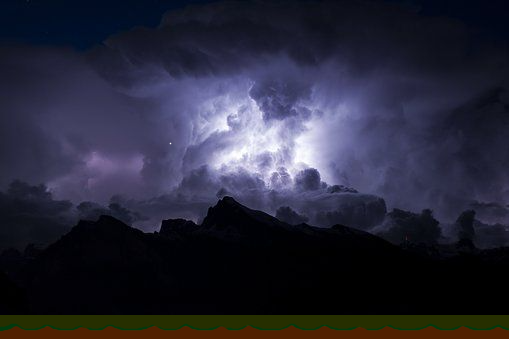
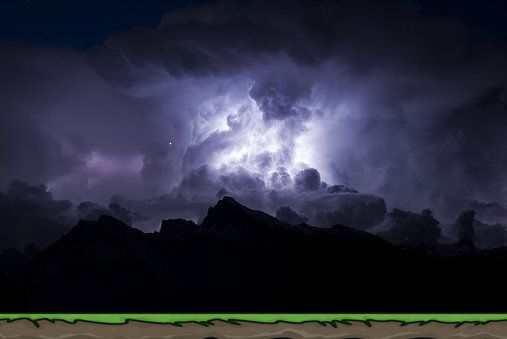
platforme

diff --git a/RPGEnGroupe/RPG/Samus/RPG_Samus.cpp b/RPGEnGroupe/RPG/Samus/RPG_Samus.cpp
@@ -9,15 +9,63 @@
 #pragma region constructor
 RPG_Samus::RPG_Samus()
 {
-	//inventory
 	Inventory inventory = Inventory();
 
-	//Font
+#pragma region font
 	font = new sf::Font();
 	if (!font->loadFromFile("../Donnees/Fonts/Ubuntu-Title.ttf"))
 		return;
+#pragma endregion
 
-	//Samus
+#pragma region platforme
+	spritePlatforme1 = new sf::Sprite();
+	texturePlatforme1 = new sf::Texture();
+	spritePlatforme2 = new sf::Sprite();
+	texturePlatforme2 = new sf::Texture();
+	spritePlatforme3 = new sf::Sprite();
+	texturePlatforme3 = new sf::Texture();
+	spritePlatforme4 = new sf::Sprite();
+	texturePlatforme4 = new sf::Texture();
+
+	if (texturePlatforme1->loadFromFile("../Donnees/Sol.png"))
+	{
+		spritePlatforme1->setTexture(*texturePlatforme1);
+	}
+	if (texturePlatforme2->loadFromFile("../Donnees/Sol.png"))
+	{
+		spritePlatforme2->setTexture(*texturePlatforme2);
+	}
+	if (texturePlatforme3->loadFromFile("../Donnees/Sol.png"))
+	{
+		spritePlatforme3->setTexture(*texturePlatforme1);
+	}
+	if (texturePlatforme4->loadFromFile("../Donnees/Sol.png"))
+	{
+		spritePlatforme4->setTexture(*texturePlatforme1);
+	}
+
+	spritePlatforme1->setOrigin(sf::Vector2f(0, 0));
+	spritePlatforme1->setScale(sf::Vector2f(PLATFORME1_SCALE, PLATFORME1_SCALE));
+	spritePlatforme1->setPosition(PLATFORME1_POSITION);
+	drawablePlatforme1 = spritePlatforme1;
+
+	spritePlatforme2->setOrigin(sf::Vector2f(0, 0));
+	spritePlatforme2->setScale(sf::Vector2f(PLATFORME2_SCALE, PLATFORME2_SCALE));
+	spritePlatforme2->setPosition(PLATFORME2_POSITION);
+	drawablePlatforme2 = spritePlatforme2;
+
+	spritePlatforme3->setOrigin(sf::Vector2f(0, 0));
+	spritePlatforme3->setScale(sf::Vector2f(PLATFORME3_SCALE, PLATFORME3_SCALE));
+	spritePlatforme3->setPosition(PLATFORME3_POSITION);
+	drawablePlatforme3 = spritePlatforme3;
+
+	spritePlatforme4->setOrigin(sf::Vector2f(0, 0));
+	spritePlatforme4->setScale(sf::Vector2f(PLATFORME4_SCALE, PLATFORME4_SCALE));
+	spritePlatforme4->setPosition(PLATFORME4_POSITION);
+	drawablePlatforme4 = spritePlatforme4;
+#pragma endregion
+
+#pragma region samus
 	spriteSamus = new sf::Sprite();
 	textureSamus = new sf::Texture();
 
@@ -30,22 +78,9 @@ RPG_Samus::RPG_Samus()
 	spriteSamus->setScale(sf::Vector2f(SAMUS_SCALE, SAMUS_SCALE));
 	spriteSamus->setPosition(SAMUS_POSITION);
 	drawableSamus = spriteSamus;
+#pragma endregion
 
-	//Palpatine
-	spritePalpatine = new sf::Sprite();
-	texturePalpatine = new sf::Texture();
-
-	if (texturePalpatine->loadFromFile("../Donnees/Palpatine/Dab.png"))
-	{
-		spritePalpatine->setTexture(*texturePalpatine);
-	}
-
-	spritePalpatine->setOrigin(sf::Vector2f(0, 0));
-	spritePalpatine->setScale(sf::Vector2f(PALPATINE_SCALE, PALPATINE_SCALE));
-	spritePalpatine->setPosition(PALPATINE_POSITION);
-	drawablePalpatine = spritePalpatine;
-
-	//Potion Mana
+#pragma region Potion Mana
 	spritePotionMana = new sf::Sprite();
 	texturePotionMana = new sf::Texture();
 	textMana = new sf::Text();
@@ -66,8 +101,9 @@ RPG_Samus::RPG_Samus()
 	spritePotionMana->setScale(sf::Vector2f(POTION_MANA_SCALE, POTION_MANA_SCALE));
 	spritePotionMana->setPosition(POTION_MANA_POSITION);
 	drawablePotionMana = spritePotionMana;
+#pragma endregion
 
-	//Potion Heal
+#pragma region Potion Heal
 	spritePotionHeal = new sf::Sprite();
 	texturePotionHeal = new sf::Texture();
 	textHeal = new sf::Text();
@@ -88,8 +124,9 @@ RPG_Samus::RPG_Samus()
 	spritePotionHeal->setScale(sf::Vector2f(POTION_HEAL_SCALE, POTION_HEAL_SCALE));
 	spritePotionHeal->setPosition(POTION_HEAL_POSITION);
 	drawablePotionHeal = spritePotionHeal;
+#pragma endregion
 
-	//coin
+#pragma region Coin
 	spriteCoin = new sf::Sprite();
 	textureCoin = new sf::Texture();
 	textCoin = new sf::Text();
@@ -109,26 +146,43 @@ RPG_Samus::RPG_Samus()
 	spriteCoin->setOrigin(sf::Vector2f(0, 0));
 	spriteCoin->setScale(sf::Vector2f(COIN_SCALE, COIN_SCALE));
 	spriteCoin->setPosition(COIN_POSITION);
-	drawableCoin= spriteCoin;
+	drawableCoin = spriteCoin;
+#pragma endregion
 
-	//animation
+#pragma region Animation
 	samusAnimRight = new Animation(spriteSamus, "../Donnees/Samus/Run_Right_low.png", "../Donnees/Samus/Run_Right.png", SAMUS_ANIMATION_INITIAL_SPEED, SAMUS_ANIMATION_SPEED);
 	samusAnimRight->SetScale(sf::Vector2f(SAMUS_SCALE, SAMUS_SCALE));
 
 	samusAnimLeft = new Animation(spriteSamus, "../Donnees/Samus/Run_Left_low.png", "../Donnees/Samus/Run_left.png", SAMUS_ANIMATION_INITIAL_SPEED, SAMUS_ANIMATION_SPEED);
 	samusAnimLeft->SetScale(sf::Vector2f(SAMUS_SCALE, SAMUS_SCALE));
+#pragma endregion
 }
 RPG_Samus::~RPG_Samus()
 {
+	delete spritePlatforme1;
+	spritePlatforme1 = nullptr;
+	delete texturePlatforme1;
+	texturePlatforme1 = nullptr;
+
+	delete spritePlatforme2;
+	spritePlatforme2 = nullptr;
+	delete texturePlatforme2;
+	texturePlatforme2 = nullptr;
+
+	delete spritePlatforme3;
+	spritePlatforme3 = nullptr;
+	delete texturePlatforme3;
+	texturePlatforme3 = nullptr;
+
+	delete spritePlatforme4;
+	spritePlatforme4 = nullptr;
+	delete texturePlatforme4;
+	texturePlatforme4 = nullptr;
+
 	delete spriteSamus;
 	spriteSamus = nullptr;
 	delete textureSamus;
 	textureSamus = nullptr;
-
-	delete spritePalpatine;
-	spritePalpatine = nullptr;
-	delete texturePalpatine;
-	texturePalpatine = nullptr;
 
 	delete spritePotionHeal;
 	spritePotionHeal = nullptr;
@@ -155,8 +209,7 @@ void RPG_Samus::OnUpdate()
 	/*if (isDead)
 		return;*/
 	
-
-	
+#pragma region touche move
 	if (Input::IsKeyDown(sf::Keyboard::D))
 	{
 		spriteSamus->setPosition(spriteSamus->getPosition() + sf::Vector2f(SAMUS_SPEED, 0));
@@ -171,6 +224,9 @@ void RPG_Samus::OnUpdate()
 	{
 		spriteSamus->setPosition(spriteSamus->getPosition() - sf::Vector2f(0, JUMP_FORCE));
 	}
+#pragma endregion
+
+#pragma region touche Item
 	if (Input::IsKeyDown(sf::Keyboard::A))
 	{
 		std::cout << "Heal !" << std::endl;
@@ -183,11 +239,29 @@ void RPG_Samus::OnUpdate()
 	{
 		std::cout << "Open chest !" << std::endl;
 	}
-	//position au sol
+	if (Input::IsKeyDown(sf::Keyboard::B))
+	{
+		std::cout << "Shop !" << std::endl;
+	}
+#pragma endregion
+
+#pragma region set position sol 
 	if (spriteSamus->getPosition().y <= HEIGHT - 125)
 	{
 		spriteSamus->setPosition(spriteSamus->getPosition() + sf::Vector2f(0, 0.05f));
 	}
+#pragma endregion
+
+#pragma region MyRegion
+	
+#pragma endregion
+
+
+	//pas plus haut que la fenetre
+	/*if (spriteSamus->getPosition().y <= 0)
+	{
+		spriteSamus->setPosition(spriteSamus->getPosition() - sf::Vector2f(0, 0.05f));
+	}*/
 	
 }
 sf::FloatRect RPG_Samus::GetGlobalBounds() const

diff --git a/RPGEnGroupe/RPG/GameObject/GameObject.cpp b/RPGEnGroupe/RPG/GameObject/GameObject.cpp
@@ -17,6 +17,10 @@ GameObject::GameObject(const GameObject& _copy)
 	drawablePotionHealText = _copy.drawablePotionHealText;
 	drawableCoin = _copy.drawableCoin;
 	drawableCoinText = _copy.drawableCoinText;
+	drawablePlatforme1 = _copy.drawablePlatforme1;
+	drawablePlatforme2 = _copy.drawablePlatforme2;
+	drawablePlatforme3 = _copy.drawablePlatforme3;
+	drawablePlatforme4 = _copy.drawablePlatforme4;
 }
 
 GameObject::~GameObject()
@@ -37,6 +41,14 @@ GameObject::~GameObject()
 	drawableCoin= nullptr;
 	delete drawableCoinText;
 	drawableCoinText = nullptr;
+	delete drawablePlatforme1;
+	drawablePlatforme1 = nullptr;
+	delete drawablePlatforme2;
+	drawablePlatforme2 = nullptr;
+	delete drawablePlatforme3;
+	drawablePlatforme3 = nullptr;
+	delete drawablePlatforme4;
+	drawablePlatforme4 = nullptr;
 }
 
 void GameObject::OnUpdate()
@@ -46,13 +58,17 @@ void GameObject::OnUpdate()
 void GameObject::OnDraw(Window* _window)
 {
 	_window->Draw(drawableSamus);
-	_window->Draw(drawablePalpatine);
+	//_window->Draw(drawablePalpatine);
 	_window->Draw(drawablePotionMana);
 	_window->Draw(drawablePotionHeal);
 	_window->Draw(drawablePotionManaText);
 	_window->Draw(drawablePotionHealText);
 	_window->Draw(drawableCoin);
 	_window->Draw(drawableCoinText);
+	_window->Draw(drawablePlatforme1);
+	_window->Draw(drawablePlatforme2);
+	_window->Draw(drawablePlatforme3);
+	_window->Draw(drawablePlatforme4);
 }
 
 void GameObject::OnCollisionEnter(GameObject* _object)

diff --git a/RPGEnGroupe/RPG/DataBase/DataBase.h b/RPGEnGroupe/RPG/DataBase/DataBase.h
@@ -1,15 +1,27 @@
 #pragma once
 #include <SFML/Graphics.hpp>
 
-#define WIDTH 900
-#define HEIGHT 500
+#define WIDTH 1500
+#define HEIGHT 800
+#define BACKGROUND_SCALE sf::Vector2f(3.0f, 2.4f)
 
 #define MAIN_MENU "main menu"
+
+//platforme
+#define PLATFORME1_SCALE 0.3f
+#define PLATFORME2_SCALE 0.3f
+#define PLATFORME3_SCALE 0.3f
+#define PLATFORME4_SCALE 0.3f
+
+#define PLATFORME1_POSITION sf::Vector2f(50, 550)
+#define PLATFORME2_POSITION sf::Vector2f(700, 275)
+#define PLATFORME3_POSITION sf::Vector2f(400, 400)
+#define PLATFORME4_POSITION sf::Vector2f(1000, 100)
 
 //Player
 #define PLAYER_MAX_LIFE 100
 #define PLAYER_DAMAGE 10
-#define JUMP_FORCE 100
+#define JUMP_FORCE 250
 #define SAMUS_POSITION sf::Vector2f(50, HEIGHT - 125)
 #define SAMUS_SPEED 10
 #define SAMUS_SCALE 1.5f

diff --git a/RPGEnGroupe/RPG/Samus/RPG_Samus.h b/RPGEnGroupe/RPG/Samus/RPG_Samus.h
@@ -12,11 +12,17 @@ private:
 
 	sf::Font* font = nullptr;
 
+	sf::Sprite* spritePlatforme1 = nullptr;
+	sf::Texture* texturePlatforme1 = nullptr;
+	sf::Sprite* spritePlatforme2 = nullptr;
+	sf::Texture* texturePlatforme2 = nullptr;
+	sf::Sprite* spritePlatforme3 = nullptr;
+	sf::Texture* texturePlatforme3 = nullptr;
+	sf::Sprite* spritePlatforme4 = nullptr;
+	sf::Texture* texturePlatforme4 = nullptr;
+
 	sf::Sprite* spriteSamus = nullptr;
 	sf::Texture* textureSamus = nullptr;
-
-	sf::Sprite* spritePalpatine = nullptr;
-	sf::Texture* texturePalpatine = nullptr;
 
 	sf::Text* textMana = nullptr;
 	sf::Sprite* spritePotionMana = nullptr;

diff --git a/RPGEnGroupe/RPG/GameObject/GameObject.h b/RPGEnGroupe/RPG/GameObject/GameObject.h
@@ -15,6 +15,10 @@ protected:
 	sf::Drawable* drawablePotionHealText = nullptr;
 	sf::Drawable* drawableCoin = nullptr;
 	sf::Drawable* drawableCoinText = nullptr;
+	sf::Drawable* drawablePlatforme1 = nullptr;
+	sf::Drawable* drawablePlatforme2 = nullptr;
+	sf::Drawable* drawablePlatforme3 = nullptr;
+	sf::Drawable* drawablePlatforme4 = nullptr;
 
 public:
 	GameObject();

diff --git a/RPGEnGroupe/RPG/Game/RPG_Game.cpp b/RPGEnGroupe/RPG/Game/RPG_Game.cpp
@@ -31,7 +31,7 @@ void RPG_Game::Start()
 	SetBackground("../Donnees/Backgroung_Game.png");
 	background->SetOrigin(sf::Vector2f(0, 0));
 	background->SetPosition(sf::Vector2f(0, 0));
-	background->SetScale(sf::Vector2f(1.8f, 1.5f));
+	background->SetScale(BACKGROUND_SCALE);
 }
 void RPG_Game::InitBackGround()
 {
